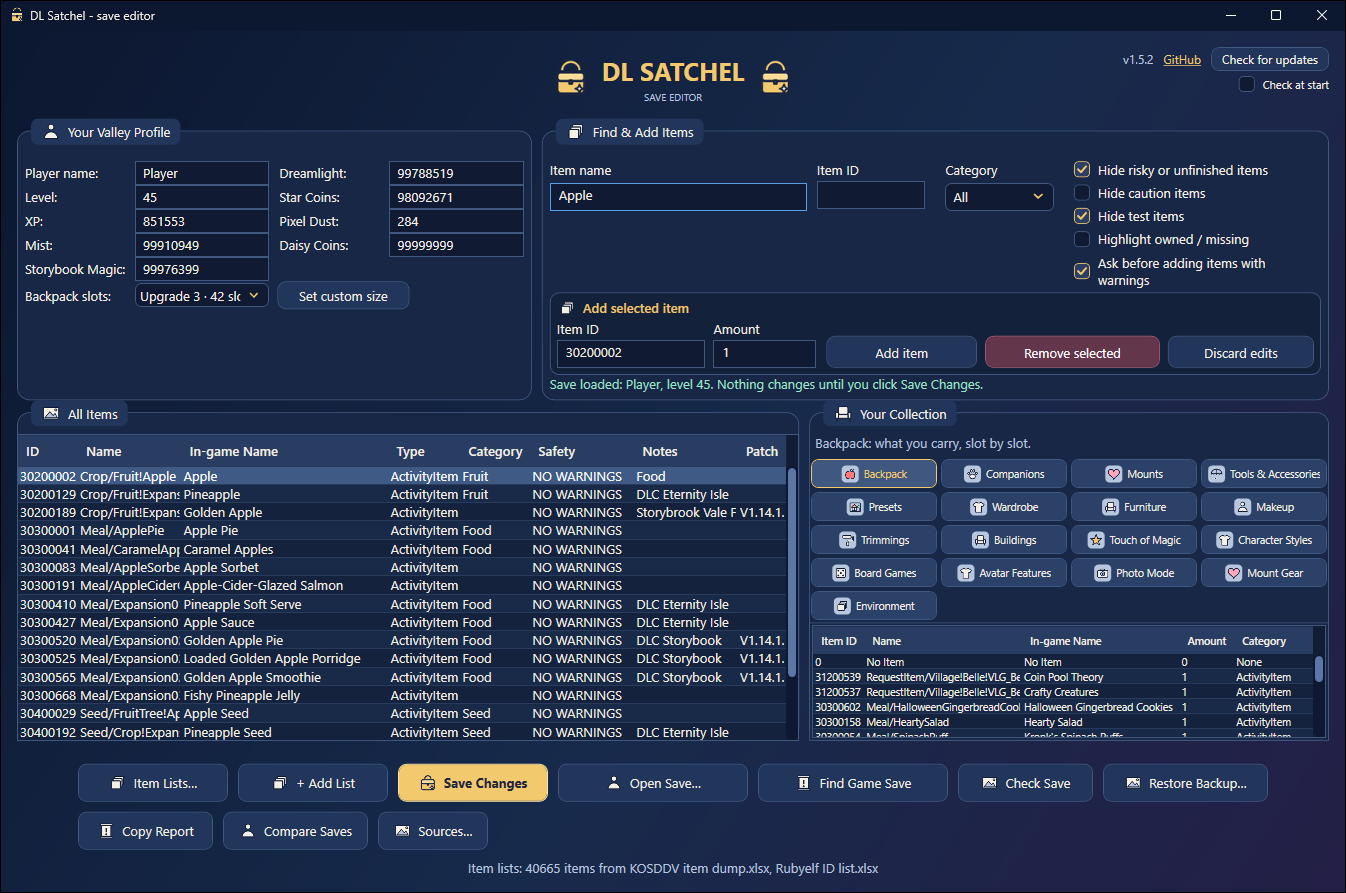
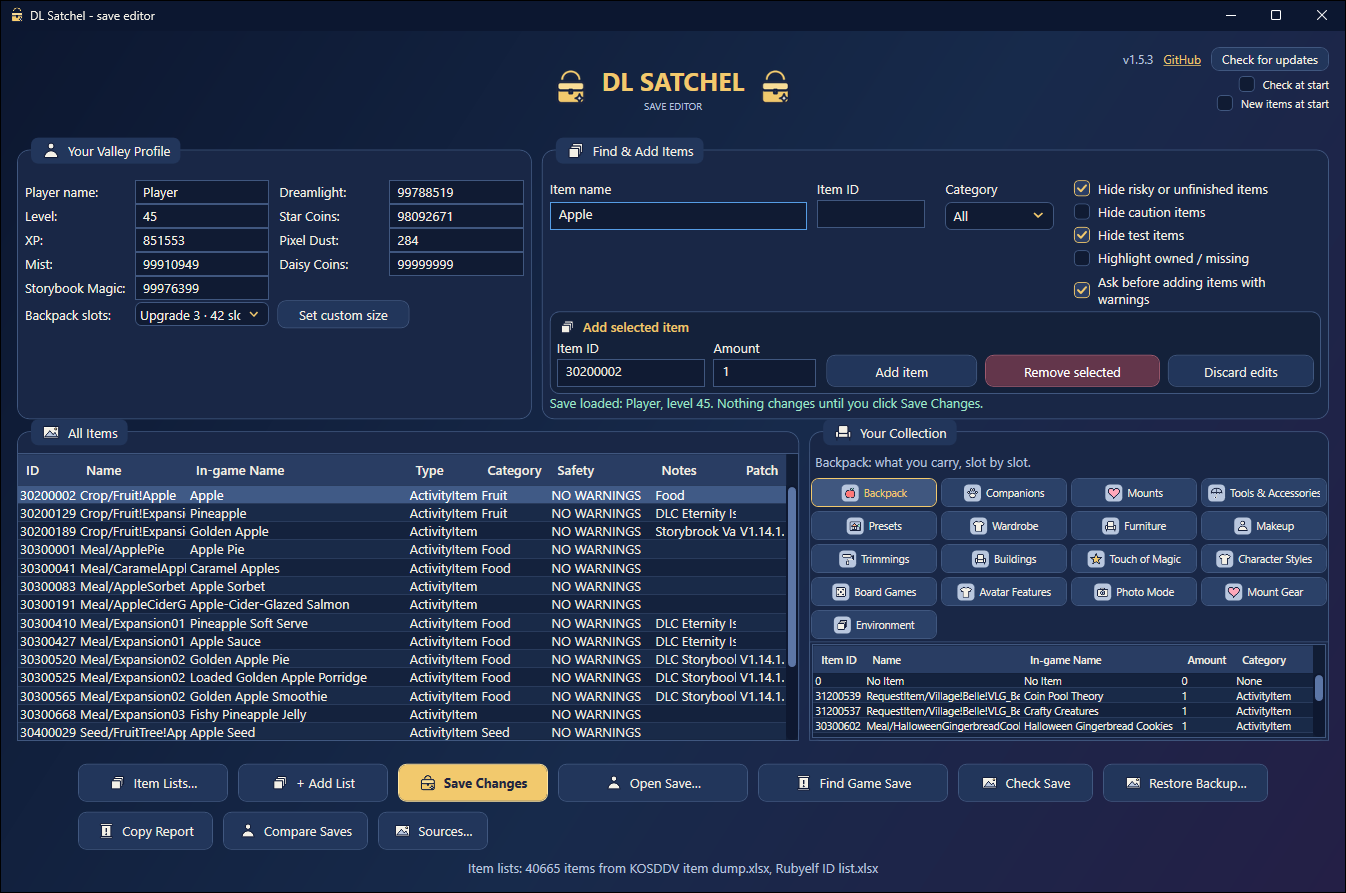
README screenshots show the New items at start option

diff --git a/README.md b/README.md
@@ -12,7 +12,7 @@ Add items, clothes, furniture, companions and coins to your save on PC.
 <a href="https://ko-fi.com/Dysprohol"><img alt="Ko-fi" src="https://img.shields.io/badge/Ko--fi-support-FF5E5B?logo=ko-fi&logoColor=white"></a>
 </p>
 
-![The editor with a save open](docs/img/screen-overview.png?v=1.5.2)
+![The editor with a save open](docs/img/screen-overview.png?v=1.5.4)
 
 Your whole game is kept in one file on your PC. DL Satchel opens that file and shows it as simple
 lists. You pick what you want, click **Save Changes**, start the game - and it is there.
@@ -50,12 +50,12 @@ handles that by itself. Before every save it makes a backup, so you can always g
    animals walking around your valley) are not companions: the editor won't add them, and **Check Save**
    finds any added before - tested in the game: even one empties the Companions list.
 
-   ![Finding and adding an item](docs/img/screen-add-item.png?v=1.5.2)
+   ![Finding and adding an item](docs/img/screen-add-item.png?v=1.5.4)
 
 6. To remove something, open a collection on the right (for example **Furniture**), select it and
    click **Remove selected**. Coins and level are at the top left.
 
-   ![Your furniture](docs/img/screen-collection.png?v=1.5.2)
+   ![Your furniture](docs/img/screen-collection.png?v=1.5.4)
 
 7. Click **Save Changes**. The editor shows what will change (for example "Backpack") and asks you
    to confirm. Then start the game.
@@ -66,7 +66,7 @@ Things your character holds - umbrellas, parasols and the like - are **not cloth
 them together with your tools. Open the **Tools & Accessories** tab, find the item and click
 **Add item**. It is added unequipped, so you pick it in the game.
 
-![Tools and accessories](docs/img/screen-tools.png?v=1.5.2)
+![Tools and accessories](docs/img/screen-tools.png?v=1.5.4)
 
 ## Decoration presets
 
@@ -79,7 +79,7 @@ pieces you are missing and can add them to your furniture storage in one go.
 Most presets come from the shop. The ones the lists call "unreleased" are hidden at first: untick
 **Hide risky or unfinished items** to see them.
 
-![Decoration presets](docs/img/screen-presets-furniture.png?v=1.5.2)
+![Decoration presets](docs/img/screen-presets-furniture.png?v=1.5.4)
 
 ## Adding everything you're missing
 
